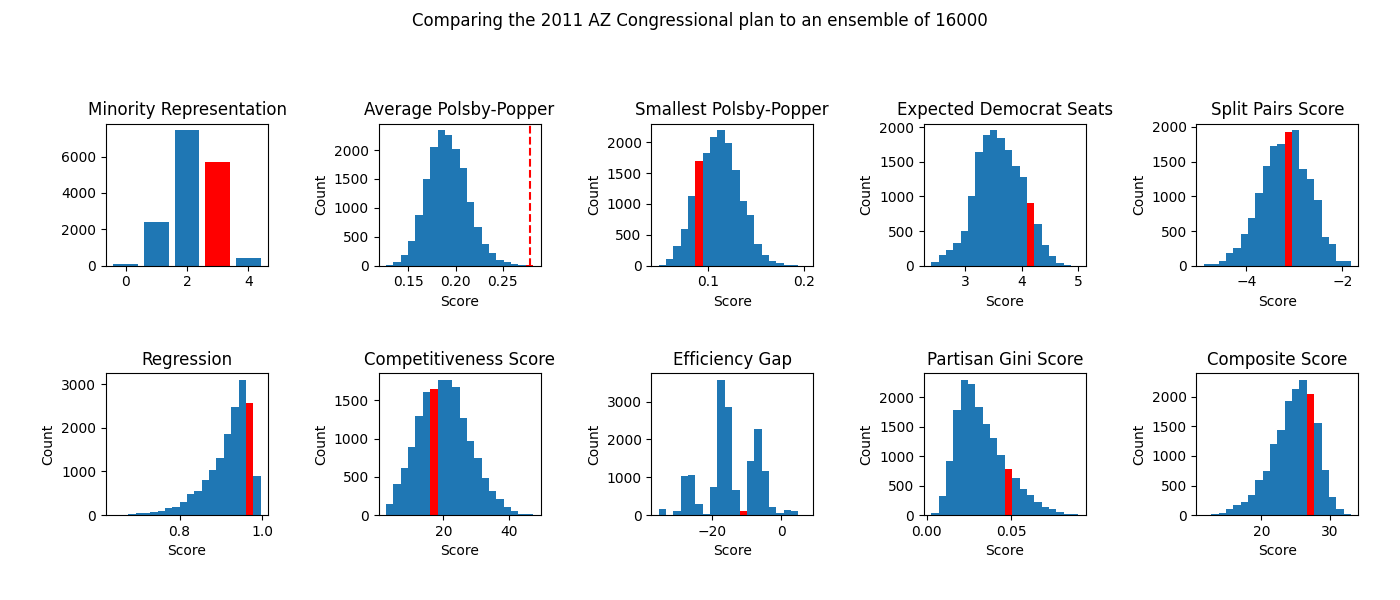
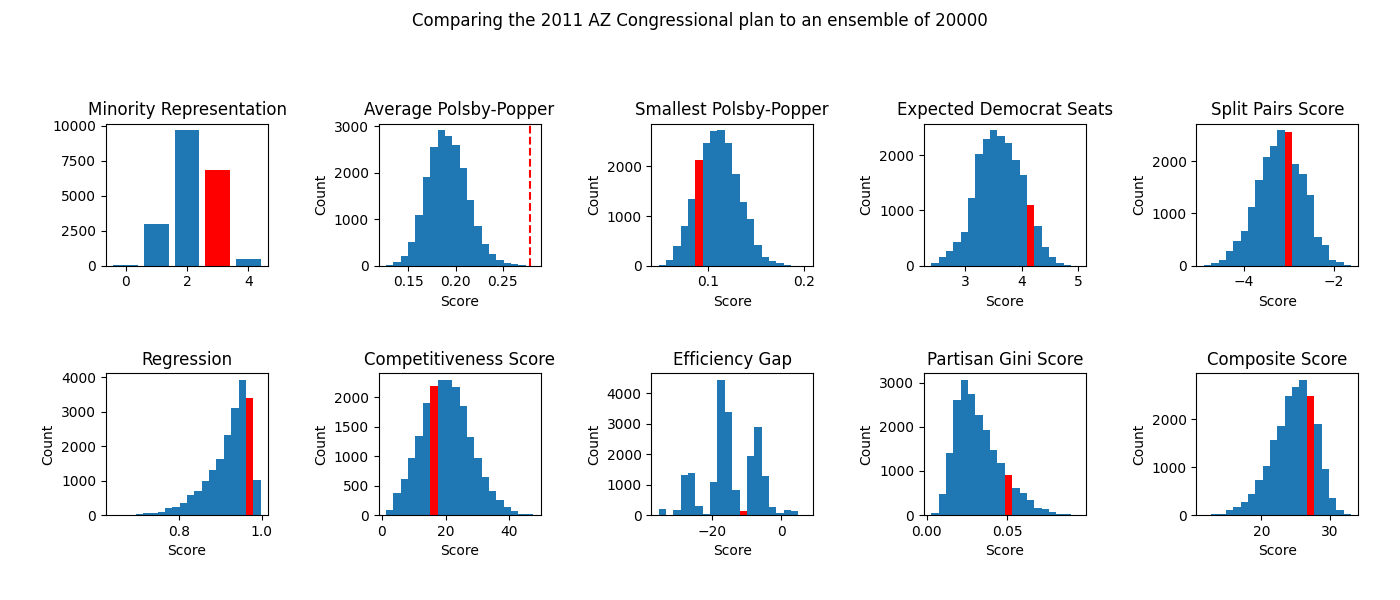
more maps

diff --git a/map-check.html b/map-check.html
@@ -41,18 +41,21 @@
                 <div class="more-content">
                     <form method="" action="" name="stateSelector">
                         <select size="10" name="switch" onchange="switchImage();" class="selector">
-                            <option value="0">Arizona</option>
-                            <option value="1">Colorado</option>
-                            <option value="2">Georgia</option>
-                            <option value="3">Michigan</option>
-                            <option value="4">Minnesota</option>
-                            <option value="5">North Carolina</option>
-                            <option value="6">Ohio</option>
-                            <option value="7">Pennsylvania</option>
-                            <option value="8">Texas</option>
-                            <option value="9">Wisconsin</option>
+                            <option value="0">Arizona*</option>
+                            <option value="1">Colorado*</option>
+                            <option value="2">Georgia*</option>
+                            <option value="3">Michigan*</option>
+                            <option value="4">Minnesota*</option>
+                            <option value="5">North Carolina*</option>
+                            <option value="6">Ohio*</option>
+                            <option value="7">Pennsylvania*</option>
+                            <option value="8">Texas*</option>
+                            <option value="9">Wisconsin*</option>
                         </select>
                     </form>
+                </div>
+                <div class="disclaimer">
+                    <p>States indicated with * are analyzed using their 2010 plans, as I do not yet have their 2020 data.</p>
                 </div>
             </div>
             <h2>Metrics</h2>

diff --git a/css/main.css b/css/main.css
@@ -229,6 +229,11 @@ h2 {
     font-size: 2rem;
 }
 
+.disclaimer {
+    font-size: 1rem;
+    padding-bottom: 1rem;
+}
+
 .analysis .container {
     padding: 4vw;
     font-size: 1.2rem;

diff --git a/program_v2_1.py b/program_v2_1.py
@@ -195,7 +195,6 @@ colors40 = ["#c21f5b","#fbc02c","#ff5722","#bf360c","#fdf9c3","#c5cae9","#fff177
           "#253137","#ba68c8","#ffccbc","#9c27b0","#90a4ae","#e92663","#0488d1","#7986cb","#e64a18","#03a9f4","#f06292",
           "#f67f17","#19237e","#03579b","#cfd8dc","#ddedc8","#689f38","#607d8b","#b3e5fc","#303f9f","#33691d","#455a64",
           "#88144f","#8bc34a","#ff8a65","#4a198c","#7b21a2","#4fc3f7","#ffec3a"]
-tab40 = LinearSegmentedColormap.from_list("custom", colors40)
 
 # MARKOV CHAIN ANALYSIS
 
@@ -234,6 +233,7 @@ def analysis(STATE, TOTAL_STEPS, ELECTION_USED):
 
     initial_partition = GeographicPartition(graph, assignment=ASSIGNMENT, updaters=my_updaters)
     # print(overall_polsby_popper(initial_partition))
+    district_coloring = LinearSegmentedColormap.from_list("custom", colors40[:len(initial_partition.parts)])
 
     # The ReCom proposal needs to know the ideal population for the districts so that
     # we can improve speed by bailing early on unbalanced partitions.
@@ -491,13 +491,13 @@ def analysis(STATE, TOTAL_STEPS, ELECTION_USED):
     
     row = 0
     for partition in [initial_partition, minority_partition]:
-        partition.plot(units, ax=axMap[row,0], cmap=tab40[:len(initial_partition.parts)])
+        partition.plot(units, ax=axMap[row,0], cmap=district_coloring)
         partition.plot(units, ax=axMap[row,1], cmap=minority_coloring(partition))
         partition.plot(units, ax=axMap[row,2], cmap=partisan_coloring(partition))
         row += 1
     row = 0
     for partition in [regression_partition, competitive_partition]:
-        partition.plot(units, ax=axMap2[row,0], cmap=tab40[:len(initial_partition.parts)])
+        partition.plot(units, ax=axMap2[row,0], cmap=district_coloring)
         partition.plot(units, ax=axMap2[row,1], cmap=minority_coloring(partition))
         partition.plot(units, ax=axMap2[row,2], cmap=partisan_coloring(partition))
         row += 1
@@ -527,11 +527,11 @@ def analysis(STATE, TOTAL_STEPS, ELECTION_USED):
     figMap2.savefig(f"output/{STATE}{YEAR}/map2.png")
 
 # OVERNIGHT RUNS
-analysis('AZ', 16000, 'GOV18') # cleared; error with shapefile: very many overlaps among polygons
-analysis('CO', 8000, 'GOV18') # cleared
-analysis('GA', 12000, 'PRES16') # cleared
-analysis('MI', 10000, 'PRES16') # cleared - remade the json
-analysis('MN', 6000, 'PRES16') # cleared
+analysis('AZ', 20000, 'GOV18') # cleared; error with shapefile: very many overlaps among polygons
+analysis('CO', 12000, 'GOV18') # cleared
+analysis('GA', 15000, 'PRES16') # cleared
+analysis('MI', 15000, 'PRES16') # cleared - remade the json
+analysis('MN', 12000, 'PRES16') # cleared
 analysis('NC', 20000, 'PRES16') # cleared; error with shapefile
 analysis('OH', 12000, 'PRES16') # cleared
 analysis('PA', 12000, 'PRES16') # cleared
